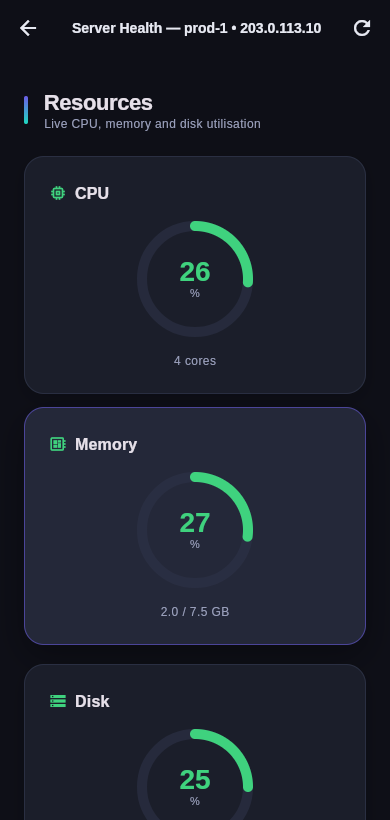
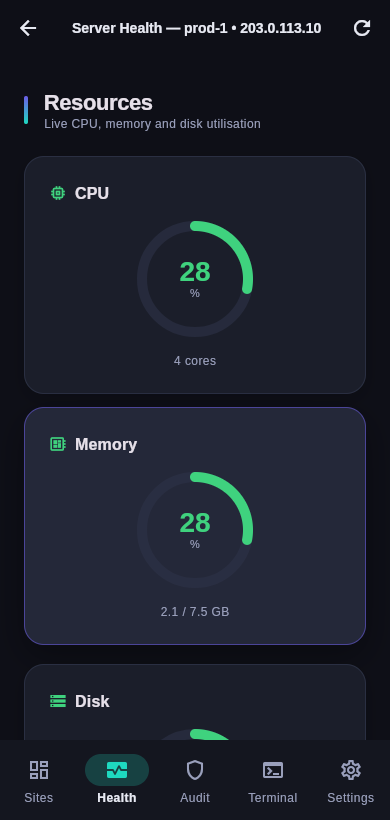
Add phone bottom-nav dashboard screenshot; refresh gallery
Claude-Session: https://claude.ai/code/session_014SAkRiggDwfXRUAhogKMJ4

diff --git a/docs/screenshots/README.md b/docs/screenshots/README.md
@@ -50,9 +50,12 @@ focus: the commit graph and **Push & Deploy** stack full-width, the 3-pane merge
 conflict resolver collapses to an **Ours/Theirs/Resolution tab bar**, and the
 health gauges stack to one column.
 
-| Git / Push & Deploy | Health (monitoring) | Merge conflicts (tabbed) |
-|---|---|---|
-| ![phone-git](17-phone-git.png) | ![phone-health](18-phone-health.png) | ![phone-merge](19-phone-merge.png) |
+On phones the top-level destinations move to a **bottom navigation bar**
+(Sites · Health · Audit · Terminal · Settings); desktop keeps its app-bar icons.
+
+| Dashboard + bottom nav | Git / Push & Deploy | Health (monitoring) | Merge conflicts (tabbed) |
+|---|---|---|---|
+| ![phone-dashboard](20-phone-dashboard.png) | ![phone-git](17-phone-git.png) | ![phone-health](18-phone-health.png) | ![phone-merge](19-phone-merge.png) |
 
 ## How these were generated
 